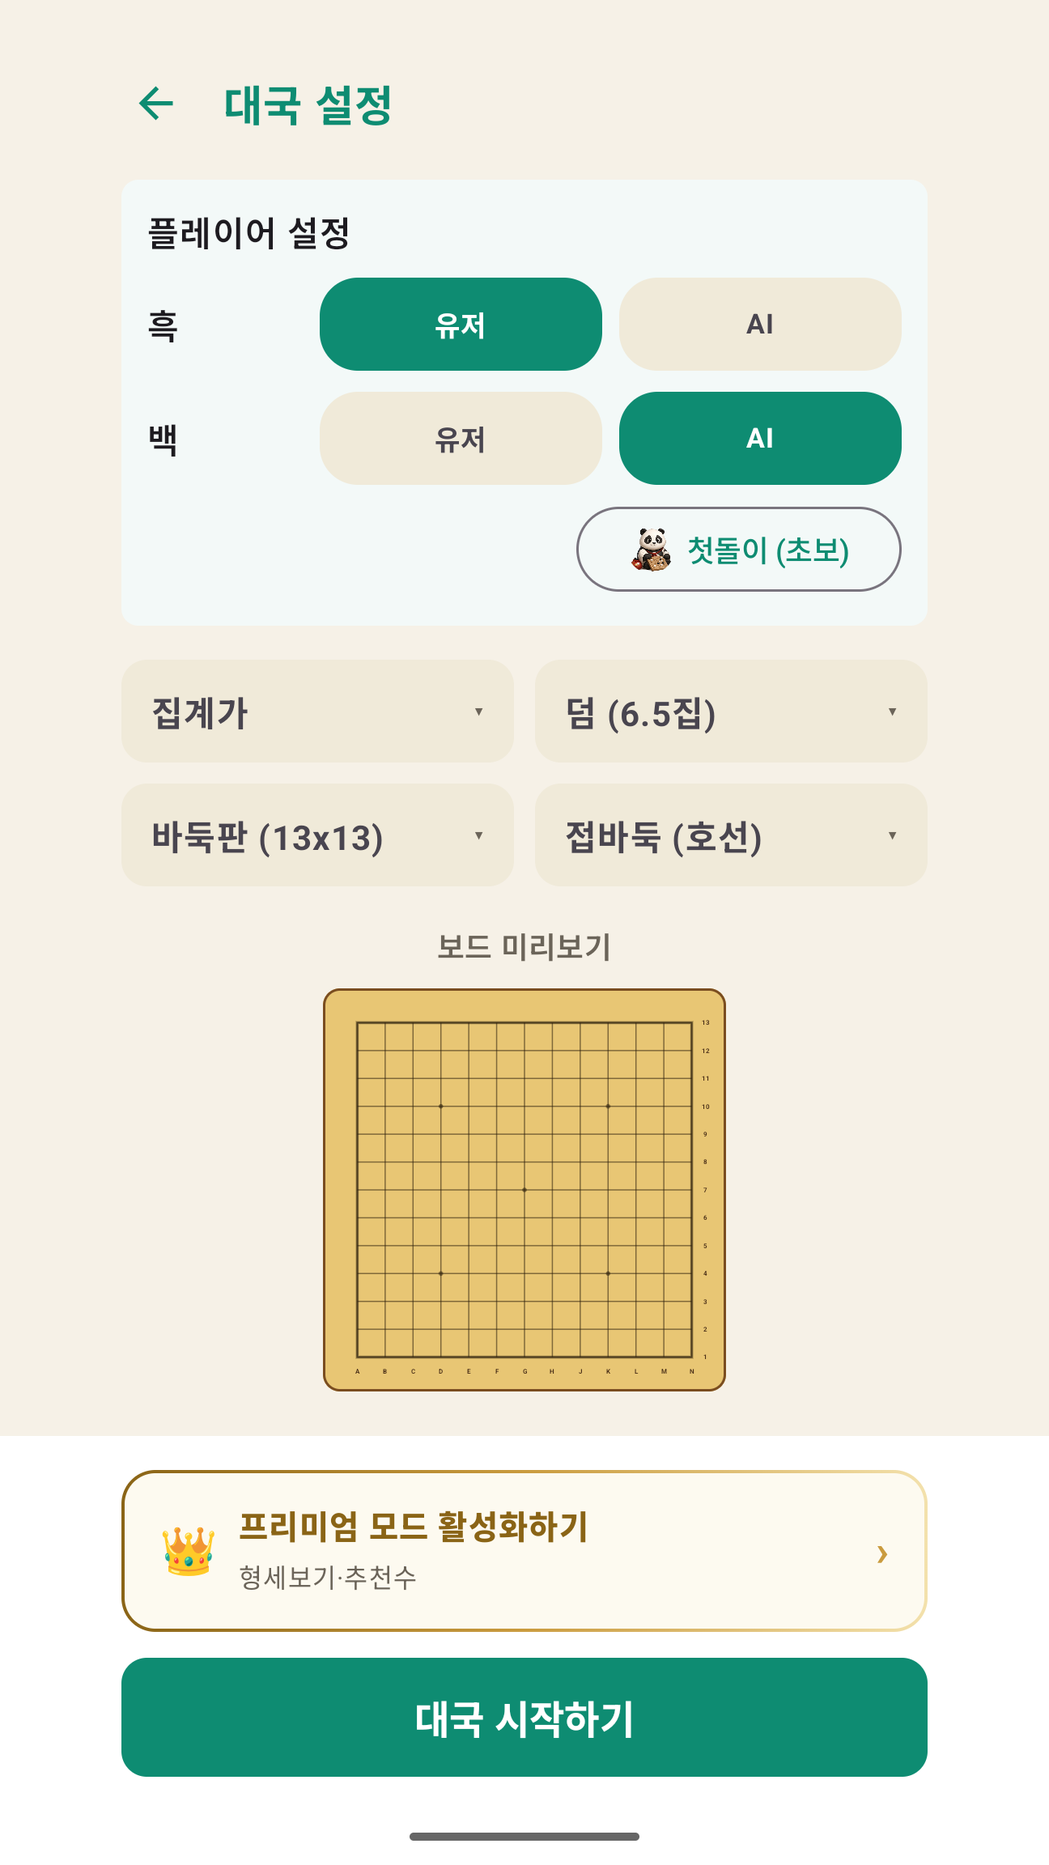
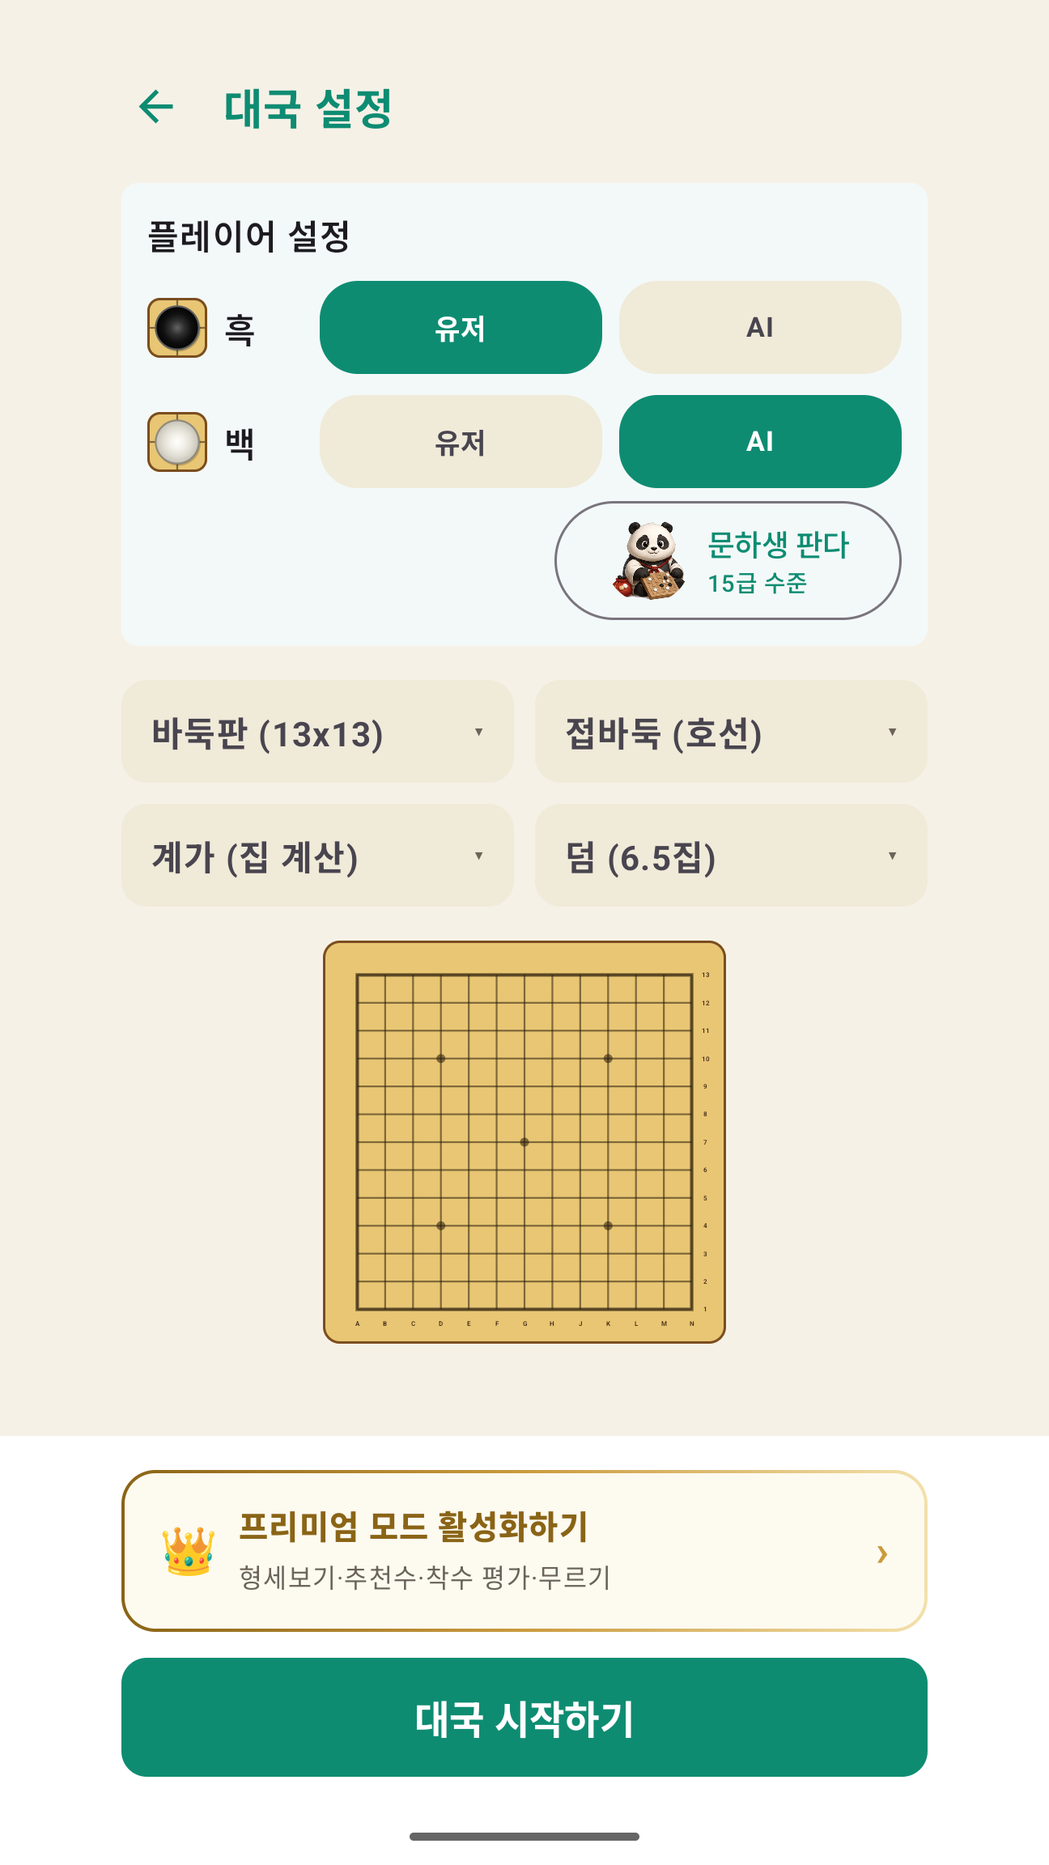
chore(store): 스크린샷 재캡처 — 1.2.0 화면으로 여덟 장 + 교체 후보 둘(상대 고르기 · 다시보기의 큰 그래프), U-64·U-68 해소 (backlog #230)
- 같은 여덟 장(01 홈 ~ 08 판정)을 1.2.0 개발 빌드로 다시 찍었다 — 홈의 「기력 측정 대국」 카드, 대국 설정의 돌 그림·캐릭터 급수,
  대국 화면의 「무료 3」·착수 칸, 대국 기록의 승률, 실제로 계가한 판정 결과.
- 교체 후보 둘은 phone_screenshots/에만 둔다(Play 상한 8장). 콘솔에 올릴지는 사용자가 정한다.
- 변환 스크립트를 저장소에 둔다(scripts/make-store-screenshots.py) — 직전 세트의 스크립트는 그 세션과 함께 사라졌다.
- 연출한 것(심어 둔 국면·기록, 오프라인으로 찍은 다시보기)은 README 맨 위 절에 적었다.
- U-64(기력 측정 대국의 셋) 사용자 확인, U-68(AI 기권 제안의 여섯)은 따로 따지지 않고 맡김 — 폰에서 이상이 보이면 다시 연다.

diff --git a/scripts/make-store-screenshots.py b/scripts/make-store-screenshots.py
@@ -1,0 +1,60 @@
+#!/usr/bin/env python3
+"""에뮬레이터 캡처(1080x2400)를 Play 스토어 스크린샷 규격(1296x2304 · 정확히 9:16 · PNG · RGB)으로 만든다.
+
+사용법:
+    adb exec-out screencap -p > /tmp/home.png
+    python3 scripts/make-store-screenshots.py --out /tmp/out 01_home=/tmp/home.png 02_setup=/tmp/setup.png
+
+절차(`work/play-store-assets/README.md`와 같다):
+  1. 상태 표시줄(위 104px)을 잘라 낸다 — 시계·알림 아이콘이 스토어에 찍히지 않게.
+  2. 남은 화면(1080x2296)을 1296x2304 캔버스 가운데에 놓는다. 화면은 하나도 자르지 않는다.
+  3. 모자란 가장자리는 **그 이미지 자신의 가장자리 열·행을 늘려** 채운다 — 앱 배경색으로 칠하면 다이얼로그의 어두운 막이 깔린
+     컷에서 밝은 띠가 생긴다.
+
+Pillow가 필요하다(`pip install pillow`). 릴리스 게이트에는 넣지 않는다 — 스크린샷을 다시 찍을 때 사람이 직접 돌린다.
+"""
+import argparse
+import os
+
+from PIL import Image
+
+CAPTURE_SIZE = (1080, 2400)
+STATUS_BAR_PX = 104
+STORE_SIZE = (1296, 2304)
+
+
+def to_store_format(capture: Image.Image) -> Image.Image:
+    if capture.size != CAPTURE_SIZE:
+        raise SystemExit(f"캡처 크기가 {CAPTURE_SIZE}가 아니다: {capture.size} — 상태 표시줄 높이와 여백을 다시 정해야 한다")
+    body = capture.convert("RGB").crop((0, STATUS_BAR_PX, CAPTURE_SIZE[0], CAPTURE_SIZE[1]))
+    body_width, body_height = body.size
+    width, height = STORE_SIZE
+    left, top = (width - body_width) // 2, (height - body_height) // 2
+    canvas = Image.new("RGB", STORE_SIZE)
+    canvas.paste(body, (left, top))
+    # 좌우 — 화면의 맨 왼쪽·오른쪽 열을 늘린다.
+    canvas.paste(body.crop((0, 0, 1, body_height)).resize((left, body_height)), (0, top))
+    right = width - left - body_width
+    canvas.paste(body.crop((body_width - 1, 0, body_width, body_height)).resize((right, body_height)), (left + body_width, top))
+    # 상하 — 좌우를 채운 뒤의 맨 위·아래 행을 늘린다.
+    canvas.paste(canvas.crop((0, top, width, top + 1)).resize((width, top)), (0, 0))
+    bottom = height - top - body_height
+    canvas.paste(canvas.crop((0, top + body_height - 1, width, top + body_height)).resize((width, bottom)), (0, top + body_height))
+    return canvas
+
+
+def main() -> None:
+    parser = argparse.ArgumentParser(description=__doc__, formatter_class=argparse.RawDescriptionHelpFormatter)
+    parser.add_argument("--out", required=True, help="결과 PNG를 둘 폴더")
+    parser.add_argument("shots", nargs="+", metavar="이름=캡처.png")
+    args = parser.parse_args()
+    os.makedirs(args.out, exist_ok=True)
+    for shot in args.shots:
+        name, source = shot.split("=", 1)
+        target = os.path.join(args.out, name + ".png")
+        to_store_format(Image.open(source)).save(target, "PNG", optimize=True)
+        print(f"{name}: {STORE_SIZE[0]}x{STORE_SIZE[1]} RGB · {os.path.getsize(target):,} bytes")
+
+
+if __name__ == "__main__":
+    main()

diff --git a/work/play-store-assets/README.md b/work/play-store-assets/README.md
@@ -4,40 +4,51 @@
 
 ⚠ **2026-09-13 갱신 — 이 폴더 자체가 정본이다.** 예전엔 이 자리가 `dist/`(gitignore 대상, 로컬 전용)였고 git 추적 정본은 별도로 `design-handoff/export/2026-08-11-v0.1.2/`에 있었다. 그 이원화를 접고 **하나로 합쳤다** — `design-handoff/`는 삭제했고(옛 라운드별 스냅샷은 git 히스토리로만 남는다), 지금 `work/play-store-assets/`가 git에 커밋되는 유일한 사본이자 Play Console에 그대로 올리는 사본이다. 버전 이력은 라운드 폴더를 새로 만들지 않고 git으로 추적하며, 필요하면 날짜 붙인 폴더/파일을 추가할 수 있다(사용자 결정). `AppNameContractTest`가 이 폴더의 `store_listing.txt`를 실제 경로로 읽는다.
 
-## ⚠ 2026-09-19 — 스크린샷 8장 전면 재캡처 (908 기준, 백로그 #162·#175·#177)
+## 2026-10-08 — 스크린샷 재캡처 (1.2.0 기준 · 여덟 장 + 교체 후보 둘, 백로그 #230)
 
-**왜 다시 찍었나**: 직전 세트는 **902 시점**이라 그 뒤의 화면 변화를 하나도 담지 못했다. 무엇보다
-**구독을 켜는 릴리즈인데 스토어에 구독이 한 컷도 없었다.**
+**왜 다시 찍었나**: 직전 세트(2026-09-19, 908 기준)가 1.2.0의 화면과 달라졌다 — 홈에 「기력 측정 대국」 카드가 생겼고,
+대국 설정에 돌 그림·캐릭터 얼굴·급수가 붙었고, 대국 화면에 착수 칸과 「무료 3」이 생겼고, 대국 기록에 승률이 붙었다.
+⚠ **스토어에 올릴지는 사용자가 정한다**(2026-10-08: *"새로 찍어주세요. 스토어에 등록 여부는 추가로 판단할게요"*) — 콘솔에는 아직 옛 세트가 걸려 있다.
 
-**구성을 바꿨다.** 옛 7장은 「가이드 오버레이」 변형에 **3장**을 쓰고 있었다(`01_home_guide`·
-`03_setup_guide`·`05_gameplay_guide`) — 같은 화면을 두 번씩 보여주는 셈이라 8장 예산이 아깝다.
-지금은 **한 장이 한 가지씩** 판다:
+구성은 직전 세트와 같다(한 장이 한 가지씩 판다). 파일 이름도 그대로다.
 
-| 파일 | 무엇을 파는가 |
-| --- | --- |
-| `01_home` | 정체성 — 오프라인 로컬 AI |
-| `02_setup` | 상대 캐릭터·판 크기·접바둑 선택 |
-| `03_gameplay` | 핵심 제품 |
-| `04_eval` | **차별점** — 형세(집) 오버레이 |
-| `05_topmoves` | 코칭의 나머지 절반 — 추천 수 |
-| `06_mypage` | **지금 파는 것** — 프리미엄 구독 카드 + 출석 도장판 + 1회권 |
-| `07_history` | 부제가 약속한 "복기" |
-| `08_judgement` | 종국 판정·계가 결과 |
+| 파일 | 무엇을 파는가 | 1.2.0에서 달라진 것 |
+| --- | --- | --- |
+| `01_home` | 정체성 — 오프라인 로컬 AI | 「기력 측정 대국」 카드(8급) |
+| `02_setup` | 상대 캐릭터·판 크기·접바둑 선택 | 흑·백 돌 그림 · 캐릭터 얼굴과 「15급 수준」 · 「계가 (집 계산)」 |
+| `03_gameplay` | 핵심 제품 | 「형세 보기 (무료 3)」 · 착수 칸(바로/확인) |
+| `04_eval` | **차별점** — 형세(집) 오버레이 | 버튼이 「흑 3.4집 우세」로 바뀐다 |
+| `05_topmoves` | 코칭의 나머지 절반 — 추천 수 | — |
+| `06_mypage` | **지금 파는 것** — 프리미엄 구독 카드 + 출석 도장판 + 1회권 | — |
+| `07_history` | 부제가 약속한 "복기" | **승률**(최근 10판 · 최근 한 달 · 누적) · 기록 여섯 줄 |
+| `08_judgement` | 종국 판정·계가 결과 | 실제로 끝까지 계가한 판(흑 8.5집 승) |
 
-⚠ **Play의 휴대전화 스크린샷 상한은 8장이다**(위 표) — 10장을 올릴 수 없다.
+**교체 후보 둘** — `phone_screenshots/`에만 있다(`phone_screenshot_alt_*.png`). ⚠ **Play의 휴대전화 스크린샷 상한은 8장**이라 넣으려면 하나를 빼야 한다.
 
-⚠ **약한 두 장을 알고 있다**(쓸지 말지는 등록하는 사람이 정한다):
-- `05_topmoves` — 후보 표시가 작아 `04_eval`과 **눈으로 잘 안 갈린다**(같은 국면이라 더 그렇다).
-- `07_history` — 기록이 **한 줄뿐**이라 비어 보인다. 여러 판을 둔 기기에서 다시 찍으면 낫다.
+| 파일 | 무엇을 파는가 | 스레드의 의견(정하는 것은 등록하는 사람) |
+| --- | --- | --- |
+| `alt_picker` | 상대 고르기 — 캐릭터와 급수(1.2.0의 머리기사) | `05_topmoves` 자리에 — 05는 아래처럼 약하다 |
+| `alt_replay_graph` | 다시보기의 큰 형세 그래프(화면 1/3 · 좌우로 넘겨 수순 이동) | `08_judgement` 자리에 — 복기는 07과 이것이 함께 말한다 |
 
-⚠ **빌드타임 태그(`v260919.0334`)가 대국 화면 좌상단에 찍혀 있다** — 숨긴 것이 아니라
-`GameMenuSection.kt`가 **빌드타입과 무관하게** 늘 그리는 값이라 릴리스에도 나온다. 직전 세트에도
-같은 태그가 있었다. 지우려면 그 줄을 릴리스에서 가리는 일감이 먼저다.
+⚠ **약한 한 장**: `05_topmoves` — 추천 표시가 **하나, 작게** 뜬다(이 국면은 최선이 뚜렷하다. 33수 국면으로 바꿔 봐도 하나였다). `03`·`04`와 눈으로 잘 안 갈린다.
+`07_history`는 이제 약하지 않다(승률과 여섯 줄).
 
-**만든 방법**: 에뮬레이터(Pixel 8, 1080x2400)에서 캡처 → `상태 표시줄 104px 제거` →
-`1296x2304` 캔버스 가운데 배치 + **가장자리 열/행 복제**로 패딩 → PNG(RGB·알파 없음).
-스크립트는 그 세션의 `make_shots.py`에 있었고 절차는 아래 「정확히 1296x2304」 문단과 같다.
-⚠ 세 폴더(phone·tablet 7in·10in)는 **같은 파일**을 담는다 — 태블릿 전용 레이아웃이 없기 때문이다.
+⚠ **빌드타임 태그(`v261008.1621`)가 대국 화면 좌상단에 찍혀 있다** — `GameMenuSection.kt`가 빌드타입과 무관하게 늘 그리는 값이라 릴리스에도 나온다.
+
+### 캡처 조건과 연출 — 다시 찍을 사람이 알아야 할 것
+
+- **기기·빌드**: 에뮬레이터(Pixel 8, 1080x2400 · 420dpi · 글자 크기 1.0 · 한국어), 개발 빌드 1.2.0 / 10200(HEAD `c866b7a8`). 구독하지 않은 계정, 출석 14일차.
+- **변환**: `python3 scripts/make-store-screenshots.py --out <폴더> 01_home=<캡처.png> …` — 상태 표시줄 104px을 자르고 1296x2304 가운데에 놓은 뒤
+  **그 이미지 자신의 가장자리 열·행을 늘려** 채운다. PNG · RGB · 알파 없음. ⚠ 세 폴더(phone · tablet 7in · 10in)는 **같은 파일**을 담는다 — 태블릿 전용 배치가 없다.
+- **연출한 것**(화면은 전부 앱이 그린 그대로다 — 손댄 것은 **심어 둔 상태**뿐이다):
+  - `03`~`05`: 번들에 실린 참고 기보(13줄 · 2점 접바둑)의 **61수 국면**을 「흑 유저 / 백 수제자 반상」의 진행 중 대국으로 심어 이어하기 했다.
+    호선으로 두면 사람 쪽이 크게 앞서거나 뒤져 `흑 100%` 같은 숫자가 찍힌다(직전 세트가 접바둑 5점으로 찍은 것과 같은 사정).
+  - `08`: 에뮬레이터에서 AI끼리 둔 9줄 실제 대국의 **종국 직전(62수)**을 「흑 유저 / 백 문하생 판다」로 심고 통과했다 — 판정 결과는 앱이 실제로 계가한 값이다.
+    (통과하면 AI가 기권을 제안한다. 「계속 두기」를 골라야 계가로 간다.)
+  - `07`: 에뮬레이터에 쌓인 기록 가운데 **AI끼리 끝까지 둔 다섯 판**만 남기고 좌석 표기를 사람 대 AI로 바꿨다(둘은 기력 측정 대국으로). 테스트로 생긴 1~3수 기권과
+    판을 다 메운 87.5집 판은 뺐다. 맨 위 한 줄은 `08`에서 끝난 판이다.
+  - `alt_replay_graph`: **기기를 오프라인으로 두고** 찍었다. ⚠ 구독하지 않은 계정은 다시보기 화면에 배너 광고가 뜬다(개발 빌드는 `Test Ad`) — 광고가 박힌 컷은 스토어에 못 쓴다.
+- ⚠ 콘솔에 올릴 때의 함정(한 장씩 올려야 순서가 맞는다 · 태블릿 칸에는 phone 애셋을 그대로)은 `work/plans/GOOGLE_PLAY_LAUNCH_PLAN.md`의 A-6에 있다.
 
 ## 카테고리별 제약 (사용자가 Play Console 화면에서 직접 붙여넣은 원문 기준)
 

diff --git a/work/roadmap/260930-_ACTIVE_BACKLOG.md b/work/roadmap/260930-_ACTIVE_BACKLOG.md
@@ -260,7 +260,7 @@ python3 scripts/check-backlog-done-lines.py  # 완료 줄을 적었으면
 
 ---
 
-### 219. **기력 측정 대국 — 내 기력을 알아보고, 비슷한 상대와 두며 배운다** (Opus / 높음) — ⭐ **사용자 최우선**(2026-10-06) · 🏁 구현 끝 · main 반영(승강급 규칙 개정 · 뒤로 가기 = 기권 포함, 2026-10-07 원격 `a9bac769`) — 폰 확인과 U-64 대기
+### 219. **기력 측정 대국 — 내 기력을 알아보고, 비슷한 상대와 두며 배운다** (Opus / 높음) — ⭐ **사용자 최우선**(2026-10-06) · 🏁 구현 끝 · main 반영(승강급 규칙 개정 · 뒤로 가기 = 기권 포함, 2026-10-07 원격 `a9bac769`) — 폰 확인 대기(✅ U-64 해소)
 
 - **목표**(사용자 2026-10-06): 홈의 **두 번째 메뉴** 「기력 측정 대국」. 개인의 기력을 파악하고, **비슷한 레벨에서 반복 대전하며 승리하며 배우는** 자리다.
   이기고 지기를 되풀이하는 구간이 곧 그 사람의 실력 구간이다. 대국 설정은 늘 **사람 : AI**.
@@ -288,7 +288,7 @@ python3 scripts/check-backlog-done-lines.py  # 완료 줄을 적었으면
 - ⚠ **스레드가 정한 것 — 확인 받을 것**: ① 누구나 무료 · 9단까지 오를 수 있다(보유 캐릭터로 막지 않는다 — 고르는 것이 아니라 이겨서 오르는 것이라서. 손으로 고르는 것이 프리미엄 쪽, #220)
   ② 「최고 기력」은 **이긴 적이 있거나 승급으로 닿은** 가장 높은 급수다(스스로 고른 시작 급수는 한 판 이기기 전에는 기록이 아니다) ③ 늘 호선 · 덤 6.5 · 계가 규칙은 설정의 것
   ④ 사람 모델이 없는 기기에서는 카드가 안 보인다 — 2026-10-06에 **두 모델을 번들에 싣기로** 정해져(#215) 출시 빌드에서는 모든 기기에 있다. 숨김은 안전장치로만 남는다.
-  → 넷은 아래 표의 **U-64**로 올렸다.
+  ✅ **U-64 결정(2026-10-08 사용자)**: *"네 맞습니다"* — ①②③ 그대로다(누구나 무료 · 9단까지 / 「최고 기력」의 뜻 / 늘 호선 · 덤 6.5). ④는 출시 빌드에 두 모델이 실려 물을 것이 없다.
 - 🏁 **구현은 여기까지다(2026-10-06).** 📱 사용자 폰(S23)에서 써 본 뒤 **main에 합쳤다**(`1b14184d`까지).
 - 🔁 **승강급 규칙 개정(2026-10-07)** — 위 「오르내림」대로 다시 만들었다(`adjustRankAfterResult` · 팝업 `RankMeasureChangeDialog` · 설정 창의 규칙 문구). 브랜치에만 있다 — 폰 확인 뒤 main.
   ✅ 에뮬레이터: 15급에서 87.5집 차로 이기면 판정 결과를 닫은 뒤 팝업 *"승급! 15급 → 7급 — 87.5집 차로 이겨 8단계 올랐습니다."* · 「재 대국」은 7급 AI와 13줄로 ·
@@ -398,9 +398,13 @@ python3 scripts/check-backlog-done-lines.py  # 완료 줄을 적었으면
   #219 기력 측정 대국 · #213·#221 AI의 통과와 기권 제안.
 - **남은 것 — 사용자**: ① 인터널 트랙에 올려 실기 테스트(특히 아직 폰에서 못 본 것: 종국 계가 · 변곡점이 채워지는 시간 · 단 구간 승단 · 기권 제안 창 · #226 큰 그래프 · #228 무료 3회)
   ② Play Console의 **받는 크기**를 확인해 출시 계획 문서 §0에 적는다(200MB를 넘으면 모바일 데이터 설치 때 안내 창) ③ 콘솔의 등재문·출시 노트를 붙여 넣는다
-  ④ U-64·U-68 확인 ⑤ 프로덕션 승격 → **승격이 끝난 뒤** 태그 `v1.2.0`(스레드가 붙인다 — 메시지에 sha256).
-- ⚠ 스토어 스크린샷(02 홈 · 03 대국 설정 · 04 상대 고르기 · 05 대국 화면)은 지금 화면과 다르다 — 홈에 「기력 측정 대국」 카드가 생겼고, 설정 화면·상대 고르기·대국 화면의 착수 칸이 바뀌었다.
-  바꾸지 않아도 심사는 통과하지만 낡았다(다시 찍을지는 사용자가 정한다).
+  ④ 프로덕션 승격 → **승격이 끝난 뒤** 태그 `v1.2.0`(스레드가 붙인다 — 메시지에 sha256).
+- ✅ **U-64 결정(2026-10-08)**: 기력 측정 대국의 셋 그대로(#219 카드). ✅ **U-68 결정(2026-10-08 사용자)**: AI 기권 제안에서 스레드가 메운 여섯(무르기를 해도 한 판에 한 번 · 형세 기록에서 읽는다 ·
+  형세마다 제가 재어진 국면의 문턱 · 신경망 값만, 끊기면 다시 5회 · 종반에는 제안 없음 · 기력 측정의 기권승 폭은 받아들인 순간의 형세 점수차)을 **따로 따지지 않고 맡겼다** —
+  *"실기기 테스트 가볍게 하면서 이상 발견되지 않으면 넘어간다."* 폰에서 이상이 보이면 그때 다시 연다(정본은 `HopelessPosition.kt`의 「누가 무엇을 정했나」).
+- ✅ **스토어 스크린샷 재캡처**(2026-10-08 사용자: *"새로 찍어주세요. 스토어에 등록 여부는 추가로 판단할게요"*): `work/play-store-assets/` — 같은 여덟 장(01 홈 ~ 08 판정)을 1.2.0 화면으로 다시 찍고,
+  **교체 후보 둘**(`alt_picker` 상대 고르기 · `alt_replay_graph` 다시보기의 큰 그래프)을 `phone_screenshots/`에 더했다. 상한이 8장이라 넣으려면 하나를 뺀다
+  (스레드 의견: 05 추천 수 ↔ 상대 고르기, 08 판정 ↔ 큰 그래프). 연출한 것과 다시 찍는 법은 그 폴더 README 맨 위 절, 변환은 `scripts/make-store-screenshots.py`. **콘솔에 올릴지는 사용자가 정한다.**
 - ⚠ 테스트에서 고칠 것이 나오면 **번호를 올려 다시 만든다**(Play는 쓴 versionCode를 재사용하지 않는다 — 인터널 트랙에 올린 순간 10200은 쓴 번호다): `make bundle-aab VERSION=1.2.1`.
 
 ### 212. **캐릭터 고유 성향(도메인) — 첫 성향: 착수 템포** (Opus / 높음) — ⭐ **사용자 최우선**(2026-10-03)
@@ -637,8 +641,6 @@ python3 scripts/check-backlog-done-lines.py  # 완료 줄을 적었으면
 | U | 항목 | 물어야 할 것 |
 | --- | --- | --- |
 | U-56 | I-1 | **리그 모드를 시작하는 데 필요한 넷** — 아래 「아이디어」 I-1의 「먼저 정할 것」(P0 준비 승인 · 저사양 폰 유무 · 기력 표기 · 승급 규칙 방향) |
-| U-64 | #219 | **기력 측정 대국에서 스레드가 정한 넷의 확인** — ① 누구나 무료 · 9단까지 오를 수 있다 ② 「최고 기력」 = 이긴 적이 있거나 승급으로 닿은 가장 높은 급수 ③ 늘 호선 · 덤 6.5 ④ 사람 모델이 없는 기기에서는 카드를 숨긴다(2026-10-06부터 번들에 싣는다 — 출시 빌드에서는 안전장치로만 남는다) |
-| U-68 | #221 | **AI의 기권 제안에서 스레드가 정한 것의 확인**(2026-10-08 — 사용자의 「일관되게」를 이렇게 읽었다) — ① 「한 판에 한 번」은 **무르기를 해도** 그 판이다(전에는 무르면 다시 물었다. 새 대국·이어하기에서는 다시 물을 수 있다) ② 판단은 수마다 쌓이는 **형세 기록**에서 읽는다 — 이어한 판도 저장된 형세부터 이어서 세고, 어떤 엔진 길로 두는 AI든(사람 모델을 못 쓰는 기기 포함) 같은 규칙이다 ③ 형세마다 **제가 재어진 국면의 문턱**을 쓴다(중반에 잰 값은 15%, 후반에 잰 값은 10%) ④ 신경망이 본 값만 쓰고, 한 번이라도 값이 비거나 문턱 안으로 따라붙으면 처음부터 다시 5회 ⑤ 종반(80%~)에는 제안하지 않는다(통과의 몫) ⑥ 기력 측정 대국의 기권승 폭은 그대로 — 받아들인 순간의 형세 점수차(규칙이 본 바로 그 값). 일찍 받을수록 폭이 작다 |
 | U-70 | #229 | **첫 화면의 방향 — 셋**(⏸ #229가 아주 뒤로 갔다 — 그 일감을 집을 때 묻는다) ① 앱 이름을 「포켓 바둑」으로 바꾸는가(지금 「포켓 바둑 코치」 — 스토어 제목과 `AppNameContractTest`가 걸린다), 화면의 제목·분위기만인가 ② 무엇이 「포켓 바둑답다」인가 ③ 그림 자산을 누가 만드는가 |
 | U-63 | #220 | **인공지능 캐릭터를 「구매」로도 여는지** — 캐릭터 개별 판매는 2026-09-18에 폐기했다(8.2, 파는 것은 월 구독 하나). 이 캐릭터만 예외로 파는지, 구독으로만 여는지 |
 
